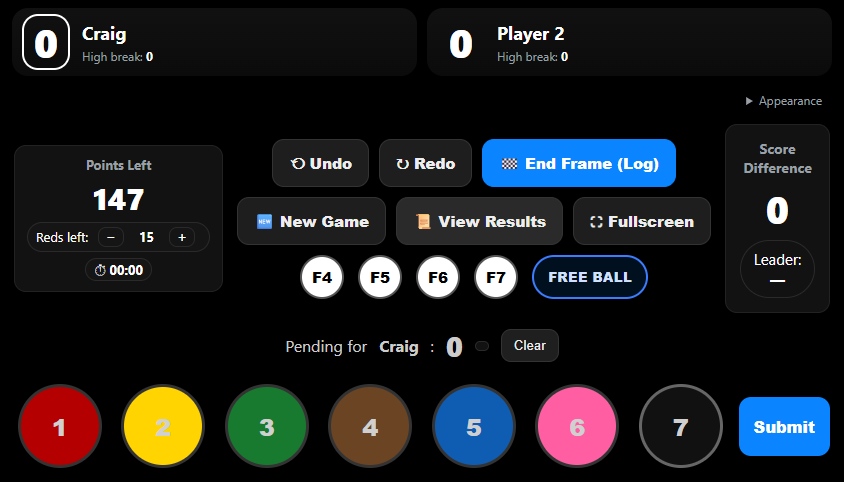
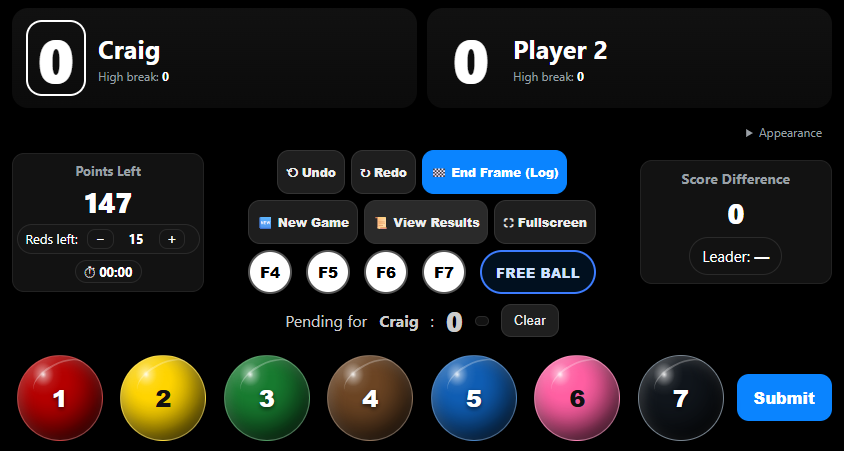
Fit all skins to tablet and enrich Classic visuals

diff --git a/review/dramatic.css b/review/dramatic.css
@@ -112,3 +112,63 @@ html[data-theme="classic"] .statCard .big{font-size:28px;}
 html[data-theme="classic"] .ball{width:min(100%,64px);}
 }
 @media(max-width:600px){html[data-theme="classic"] .ballRow{grid-template-columns:repeat(4,minmax(0,1fr));}}
+
+/* OLED and Club share the proven Broadcast layout dimensions. */
+html:is([data-theme="oled"],[data-theme="club"]) .players {gap:12px;padding:12px 14px;}
+html:is([data-theme="oled"],[data-theme="club"]) .player {display:grid;grid-template-columns:auto minmax(0,1fr);grid-template-rows:auto auto;column-gap:24px;align-items:center;min-height:0;padding:14px 20px;}
+html:is([data-theme="oled"],[data-theme="club"]) .player .score {grid-column:1;grid-row:1/3;font-size:clamp(48px,7vw,76px);margin:0;padding:4px 10px;border-radius:4px;}
+html:is([data-theme="oled"],[data-theme="club"]) .player.selected .score {outline:2px solid var(--outline);outline-offset:2px;padding:4px 10px;}
+html:is([data-theme="oled"],[data-theme="club"]) .player .name {grid-column:2;grid-row:1;font-size:clamp(18px,2.5vw,26px);align-self:end;overflow-wrap:anywhere;min-width:0;}
+html:is([data-theme="oled"],[data-theme="club"]) .player .meta {grid-column:2;grid-row:2;align-self:start;padding-top:6px;font-size:13px;}
+html:is([data-theme="oled"],[data-theme="club"]) .ballRow {grid-template-columns:repeat(8,minmax(0,1fr));}
+html:is([data-theme="oled"],[data-theme="club"]) .ball {width:min(var(--btnSize),100%);height:auto;aspect-ratio:1;}
+html:is([data-theme="oled"],[data-theme="club"]) .submit {min-width:0;}
+@media(max-width:600px){html:is([data-theme="oled"],[data-theme="club"]) .ballRow{grid-template-columns:repeat(4,minmax(0,1fr));}html:is([data-theme="oled"],[data-theme="club"]) .player{column-gap:12px;padding:12px;}html:is([data-theme="oled"],[data-theme="club"]) .player .score{font-size:44px;padding:4px;}html:is([data-theme="oled"],[data-theme="club"]) .player.selected .score{padding:4px;}html:is([data-theme="oled"],[data-theme="club"]) .player .meta{font-size:11px;}}
+/* Broadcast density follows available viewport height, including scaled tablets. */
+html:is([data-theme="oled"],[data-theme="club"]) #app {height:100dvh;}
+html:is([data-theme="oled"],[data-theme="club"]) .players {padding:8px 12px;gap:10px;}
+html:is([data-theme="oled"],[data-theme="club"]) .player {padding:8px 14px;column-gap:16px;}
+html:is([data-theme="oled"],[data-theme="club"]) .player .score {font-size:clamp(40px,7dvh,64px);}
+html:is([data-theme="oled"],[data-theme="club"]) .player .name {font-size:clamp(18px,2vw,24px);}
+html:is([data-theme="oled"],[data-theme="club"]) .player .meta {padding-top:3px;font-size:12px;}
+html:is([data-theme="oled"],[data-theme="club"]) .appearance {margin-bottom:0;}
+html:is([data-theme="oled"],[data-theme="club"]) .appearance summary {padding:8px 12px;}
+html:is([data-theme="oled"],[data-theme="club"]) .middle {gap:10px;padding:4px 12px;}
+html:is([data-theme="oled"],[data-theme="club"]) .btnCol,html:is([data-theme="oled"],[data-theme="club"]) .btnRow {gap:6px;}
+html:is([data-theme="oled"],[data-theme="club"]) :is(.undoBtn,.redoBtn,.resetBtn,.logBtn,.resultsBtn) {padding:8px 12px;min-height:44px;font-size:14px;}
+html:is([data-theme="oled"],[data-theme="club"]) .foulRow {gap:8px;}
+html:is([data-theme="oled"],[data-theme="club"]) .freeBallBtn {min-height:44px;padding:8px 12px;font-size:13px;}
+html:is([data-theme="oled"],[data-theme="club"]) .statCard {padding:8px;}
+html:is([data-theme="oled"],[data-theme="club"]) .statCard .big {font-size:clamp(24px,4dvh,34px);}
+html:is([data-theme="oled"],[data-theme="club"]) .pending {padding:4px 10px;gap:8px;}
+html:is([data-theme="oled"],[data-theme="club"]) .headToHead {margin:6px 12px 8px;padding:0 12px;}
+html:is([data-theme="oled"],[data-theme="club"]) .headToHead[open] {padding-bottom:8px;}
+html:is([data-theme="oled"],[data-theme="club"]) .h2hGames {gap:6px;margin-top:4px;}
+html:is([data-theme="oled"],[data-theme="club"]) .h2hGame {padding:6px;}
+html:is([data-theme="oled"],[data-theme="club"]) .h2hGame strong {font-size:20px;}
+html:is([data-theme="oled"],[data-theme="club"]) .bottom {padding:10px 8px;margin: auto 12px 8px;}
+html:is([data-theme="oled"],[data-theme="club"]) .ballRow {gap:8px;}
+html:is([data-theme="oled"],[data-theme="club"]) .ball {width:min(100%,clamp(48px,15dvh,112px));font-size:20px;}
+html:is([data-theme="oled"],[data-theme="club"]) .submit {padding:12px 6px;min-height:44px;font-size:14px;}
+@media(min-width:601px) and (max-height:600px){
+html:is([data-theme="oled"],[data-theme="club"]) .players{padding:6px 12px;}
+html:is([data-theme="oled"],[data-theme="club"]) .player{padding:6px 12px;}
+html:is([data-theme="oled"],[data-theme="club"]) .player .score{font-size:40px;}
+html:is([data-theme="oled"],[data-theme="club"]) .middle{grid-template-columns:minmax(0,1fr) minmax(0,2.2fr) minmax(0,1fr);gap:6px;padding:2px 12px;}
+html:is([data-theme="oled"],[data-theme="club"]) :is(.undoBtn,.redoBtn,.resetBtn,.logBtn,.resultsBtn){padding:6px 8px;font-size:12px;}
+html:is([data-theme="oled"],[data-theme="club"]) .statCard .chip{font-size:12px;padding:4px 6px;}
+html:is([data-theme="oled"],[data-theme="club"]) .h2hGame{padding:4px;}
+html:is([data-theme="oled"],[data-theme="club"]) .h2hGame span{margin-top:2px;font-size:11px;}
+html:is([data-theme="oled"],[data-theme="club"]) .bottom{padding:4px;}
+html:is([data-theme="oled"],[data-theme="club"]) .ball{width:min(100%,56px);}
+}
+
+/* Tablet skin sizing: Classic uses the space saved by hiding head-to-head. */
+html[data-theme="classic"] #app {height:100dvh;}
+html[data-theme="classic"] .player {min-height:clamp(100px,23dvh,200px);padding:12px 18px;}
+html[data-theme="classic"] .player .score {font-size:clamp(60px,13dvh,120px);}
+html[data-theme="classic"] .player .name {font-size:clamp(20px,3vw,30px);}
+html[data-theme="classic"] .ball {position:relative;isolation:isolate;width:min(100%,clamp(80px,22dvh,160px));border:1px solid #ffffff40;background-image:radial-gradient(ellipse at 30% 22%,#ffffffe8 0%,#ffffff75 4%,#ffffff12 13%,transparent 23%),radial-gradient(circle at 35% 28%,transparent 25%,#0003 62%,#000b 100%);box-shadow:inset -9px -13px 20px #0007,inset 3px 4px 12px #ffffff36,0 12px 16px -5px #000c;color:#fff;text-shadow:0 2px 4px #000a;}
+html[data-theme="classic"] .ball::after {content:"";position:absolute;inset:8% 16% 57% 16%;border-top:2px solid #ffffff42;border-radius:50%;transform:rotate(-28deg);pointer-events:none;}
+html[data-theme="classic"] :is(.ball.yellow,.ball.pink){color:#111;text-shadow:none;}
+html[data-theme="classic"] .ball.black{background-color:#10151b;border-color:#77838e;}

diff --git a/index.html b/index.html
@@ -331,6 +331,66 @@ html[data-theme="classic"] .ball{width:min(100%,64px);}
 }
 @media(max-width:600px){html[data-theme="classic"] .ballRow{grid-template-columns:repeat(4,minmax(0,1fr));}}
 
+/* OLED and Club share the proven Broadcast layout dimensions. */
+html:is([data-theme="oled"],[data-theme="club"]) .players {gap:12px;padding:12px 14px;}
+html:is([data-theme="oled"],[data-theme="club"]) .player {display:grid;grid-template-columns:auto minmax(0,1fr);grid-template-rows:auto auto;column-gap:24px;align-items:center;min-height:0;padding:14px 20px;}
+html:is([data-theme="oled"],[data-theme="club"]) .player .score {grid-column:1;grid-row:1/3;font-size:clamp(48px,7vw,76px);margin:0;padding:4px 10px;border-radius:4px;}
+html:is([data-theme="oled"],[data-theme="club"]) .player.selected .score {outline:2px solid var(--outline);outline-offset:2px;padding:4px 10px;}
+html:is([data-theme="oled"],[data-theme="club"]) .player .name {grid-column:2;grid-row:1;font-size:clamp(18px,2.5vw,26px);align-self:end;overflow-wrap:anywhere;min-width:0;}
+html:is([data-theme="oled"],[data-theme="club"]) .player .meta {grid-column:2;grid-row:2;align-self:start;padding-top:6px;font-size:13px;}
+html:is([data-theme="oled"],[data-theme="club"]) .ballRow {grid-template-columns:repeat(8,minmax(0,1fr));}
+html:is([data-theme="oled"],[data-theme="club"]) .ball {width:min(var(--btnSize),100%);height:auto;aspect-ratio:1;}
+html:is([data-theme="oled"],[data-theme="club"]) .submit {min-width:0;}
+@media(max-width:600px){html:is([data-theme="oled"],[data-theme="club"]) .ballRow{grid-template-columns:repeat(4,minmax(0,1fr));}html:is([data-theme="oled"],[data-theme="club"]) .player{column-gap:12px;padding:12px;}html:is([data-theme="oled"],[data-theme="club"]) .player .score{font-size:44px;padding:4px;}html:is([data-theme="oled"],[data-theme="club"]) .player.selected .score{padding:4px;}html:is([data-theme="oled"],[data-theme="club"]) .player .meta{font-size:11px;}}
+/* Broadcast density follows available viewport height, including scaled tablets. */
+html:is([data-theme="oled"],[data-theme="club"]) #app {height:100dvh;}
+html:is([data-theme="oled"],[data-theme="club"]) .players {padding:8px 12px;gap:10px;}
+html:is([data-theme="oled"],[data-theme="club"]) .player {padding:8px 14px;column-gap:16px;}
+html:is([data-theme="oled"],[data-theme="club"]) .player .score {font-size:clamp(40px,7dvh,64px);}
+html:is([data-theme="oled"],[data-theme="club"]) .player .name {font-size:clamp(18px,2vw,24px);}
+html:is([data-theme="oled"],[data-theme="club"]) .player .meta {padding-top:3px;font-size:12px;}
+html:is([data-theme="oled"],[data-theme="club"]) .appearance {margin-bottom:0;}
+html:is([data-theme="oled"],[data-theme="club"]) .appearance summary {padding:8px 12px;}
+html:is([data-theme="oled"],[data-theme="club"]) .middle {gap:10px;padding:4px 12px;}
+html:is([data-theme="oled"],[data-theme="club"]) .btnCol,html:is([data-theme="oled"],[data-theme="club"]) .btnRow {gap:6px;}
+html:is([data-theme="oled"],[data-theme="club"]) :is(.undoBtn,.redoBtn,.resetBtn,.logBtn,.resultsBtn) {padding:8px 12px;min-height:44px;font-size:14px;}
+html:is([data-theme="oled"],[data-theme="club"]) .foulRow {gap:8px;}
+html:is([data-theme="oled"],[data-theme="club"]) .freeBallBtn {min-height:44px;padding:8px 12px;font-size:13px;}
+html:is([data-theme="oled"],[data-theme="club"]) .statCard {padding:8px;}
+html:is([data-theme="oled"],[data-theme="club"]) .statCard .big {font-size:clamp(24px,4dvh,34px);}
+html:is([data-theme="oled"],[data-theme="club"]) .pending {padding:4px 10px;gap:8px;}
+html:is([data-theme="oled"],[data-theme="club"]) .headToHead {margin:6px 12px 8px;padding:0 12px;}
+html:is([data-theme="oled"],[data-theme="club"]) .headToHead[open] {padding-bottom:8px;}
+html:is([data-theme="oled"],[data-theme="club"]) .h2hGames {gap:6px;margin-top:4px;}
+html:is([data-theme="oled"],[data-theme="club"]) .h2hGame {padding:6px;}
+html:is([data-theme="oled"],[data-theme="club"]) .h2hGame strong {font-size:20px;}
+html:is([data-theme="oled"],[data-theme="club"]) .bottom {padding:10px 8px;margin: auto 12px 8px;}
+html:is([data-theme="oled"],[data-theme="club"]) .ballRow {gap:8px;}
+html:is([data-theme="oled"],[data-theme="club"]) .ball {width:min(100%,clamp(48px,15dvh,112px));font-size:20px;}
+html:is([data-theme="oled"],[data-theme="club"]) .submit {padding:12px 6px;min-height:44px;font-size:14px;}
+@media(min-width:601px) and (max-height:600px){
+html:is([data-theme="oled"],[data-theme="club"]) .players{padding:6px 12px;}
+html:is([data-theme="oled"],[data-theme="club"]) .player{padding:6px 12px;}
+html:is([data-theme="oled"],[data-theme="club"]) .player .score{font-size:40px;}
+html:is([data-theme="oled"],[data-theme="club"]) .middle{grid-template-columns:minmax(0,1fr) minmax(0,2.2fr) minmax(0,1fr);gap:6px;padding:2px 12px;}
+html:is([data-theme="oled"],[data-theme="club"]) :is(.undoBtn,.redoBtn,.resetBtn,.logBtn,.resultsBtn){padding:6px 8px;font-size:12px;}
+html:is([data-theme="oled"],[data-theme="club"]) .statCard .chip{font-size:12px;padding:4px 6px;}
+html:is([data-theme="oled"],[data-theme="club"]) .h2hGame{padding:4px;}
+html:is([data-theme="oled"],[data-theme="club"]) .h2hGame span{margin-top:2px;font-size:11px;}
+html:is([data-theme="oled"],[data-theme="club"]) .bottom{padding:4px;}
+html:is([data-theme="oled"],[data-theme="club"]) .ball{width:min(100%,56px);}
+}
+
+/* Tablet skin sizing: Classic uses the space saved by hiding head-to-head. */
+html[data-theme="classic"] #app {height:100dvh;}
+html[data-theme="classic"] .player {min-height:clamp(100px,23dvh,200px);padding:12px 18px;}
+html[data-theme="classic"] .player .score {font-size:clamp(60px,13dvh,120px);}
+html[data-theme="classic"] .player .name {font-size:clamp(20px,3vw,30px);}
+html[data-theme="classic"] .ball {position:relative;isolation:isolate;width:min(100%,clamp(80px,22dvh,160px));border:1px solid #ffffff40;background-image:radial-gradient(ellipse at 30% 22%,#ffffffe8 0%,#ffffff75 4%,#ffffff12 13%,transparent 23%),radial-gradient(circle at 35% 28%,transparent 25%,#0003 62%,#000b 100%);box-shadow:inset -9px -13px 20px #0007,inset 3px 4px 12px #ffffff36,0 12px 16px -5px #000c;color:#fff;text-shadow:0 2px 4px #000a;}
+html[data-theme="classic"] .ball::after {content:"";position:absolute;inset:8% 16% 57% 16%;border-top:2px solid #ffffff42;border-radius:50%;transform:rotate(-28deg);pointer-events:none;}
+html[data-theme="classic"] :is(.ball.yellow,.ball.pink){color:#111;text-shadow:none;}
+html[data-theme="classic"] .ball.black{background-color:#10151b;border-color:#77838e;}
+
 </style>
 </head>
 <body>

diff --git a/results.html b/results.html
@@ -237,6 +237,66 @@ html[data-theme="classic"] .ball{width:min(100%,64px);}
 }
 @media(max-width:600px){html[data-theme="classic"] .ballRow{grid-template-columns:repeat(4,minmax(0,1fr));}}
 
+/* OLED and Club share the proven Broadcast layout dimensions. */
+html:is([data-theme="oled"],[data-theme="club"]) .players {gap:12px;padding:12px 14px;}
+html:is([data-theme="oled"],[data-theme="club"]) .player {display:grid;grid-template-columns:auto minmax(0,1fr);grid-template-rows:auto auto;column-gap:24px;align-items:center;min-height:0;padding:14px 20px;}
+html:is([data-theme="oled"],[data-theme="club"]) .player .score {grid-column:1;grid-row:1/3;font-size:clamp(48px,7vw,76px);margin:0;padding:4px 10px;border-radius:4px;}
+html:is([data-theme="oled"],[data-theme="club"]) .player.selected .score {outline:2px solid var(--outline);outline-offset:2px;padding:4px 10px;}
+html:is([data-theme="oled"],[data-theme="club"]) .player .name {grid-column:2;grid-row:1;font-size:clamp(18px,2.5vw,26px);align-self:end;overflow-wrap:anywhere;min-width:0;}
+html:is([data-theme="oled"],[data-theme="club"]) .player .meta {grid-column:2;grid-row:2;align-self:start;padding-top:6px;font-size:13px;}
+html:is([data-theme="oled"],[data-theme="club"]) .ballRow {grid-template-columns:repeat(8,minmax(0,1fr));}
+html:is([data-theme="oled"],[data-theme="club"]) .ball {width:min(var(--btnSize),100%);height:auto;aspect-ratio:1;}
+html:is([data-theme="oled"],[data-theme="club"]) .submit {min-width:0;}
+@media(max-width:600px){html:is([data-theme="oled"],[data-theme="club"]) .ballRow{grid-template-columns:repeat(4,minmax(0,1fr));}html:is([data-theme="oled"],[data-theme="club"]) .player{column-gap:12px;padding:12px;}html:is([data-theme="oled"],[data-theme="club"]) .player .score{font-size:44px;padding:4px;}html:is([data-theme="oled"],[data-theme="club"]) .player.selected .score{padding:4px;}html:is([data-theme="oled"],[data-theme="club"]) .player .meta{font-size:11px;}}
+/* Broadcast density follows available viewport height, including scaled tablets. */
+html:is([data-theme="oled"],[data-theme="club"]) #app {height:100dvh;}
+html:is([data-theme="oled"],[data-theme="club"]) .players {padding:8px 12px;gap:10px;}
+html:is([data-theme="oled"],[data-theme="club"]) .player {padding:8px 14px;column-gap:16px;}
+html:is([data-theme="oled"],[data-theme="club"]) .player .score {font-size:clamp(40px,7dvh,64px);}
+html:is([data-theme="oled"],[data-theme="club"]) .player .name {font-size:clamp(18px,2vw,24px);}
+html:is([data-theme="oled"],[data-theme="club"]) .player .meta {padding-top:3px;font-size:12px;}
+html:is([data-theme="oled"],[data-theme="club"]) .appearance {margin-bottom:0;}
+html:is([data-theme="oled"],[data-theme="club"]) .appearance summary {padding:8px 12px;}
+html:is([data-theme="oled"],[data-theme="club"]) .middle {gap:10px;padding:4px 12px;}
+html:is([data-theme="oled"],[data-theme="club"]) .btnCol,html:is([data-theme="oled"],[data-theme="club"]) .btnRow {gap:6px;}
+html:is([data-theme="oled"],[data-theme="club"]) :is(.undoBtn,.redoBtn,.resetBtn,.logBtn,.resultsBtn) {padding:8px 12px;min-height:44px;font-size:14px;}
+html:is([data-theme="oled"],[data-theme="club"]) .foulRow {gap:8px;}
+html:is([data-theme="oled"],[data-theme="club"]) .freeBallBtn {min-height:44px;padding:8px 12px;font-size:13px;}
+html:is([data-theme="oled"],[data-theme="club"]) .statCard {padding:8px;}
+html:is([data-theme="oled"],[data-theme="club"]) .statCard .big {font-size:clamp(24px,4dvh,34px);}
+html:is([data-theme="oled"],[data-theme="club"]) .pending {padding:4px 10px;gap:8px;}
+html:is([data-theme="oled"],[data-theme="club"]) .headToHead {margin:6px 12px 8px;padding:0 12px;}
+html:is([data-theme="oled"],[data-theme="club"]) .headToHead[open] {padding-bottom:8px;}
+html:is([data-theme="oled"],[data-theme="club"]) .h2hGames {gap:6px;margin-top:4px;}
+html:is([data-theme="oled"],[data-theme="club"]) .h2hGame {padding:6px;}
+html:is([data-theme="oled"],[data-theme="club"]) .h2hGame strong {font-size:20px;}
+html:is([data-theme="oled"],[data-theme="club"]) .bottom {padding:10px 8px;margin: auto 12px 8px;}
+html:is([data-theme="oled"],[data-theme="club"]) .ballRow {gap:8px;}
+html:is([data-theme="oled"],[data-theme="club"]) .ball {width:min(100%,clamp(48px,15dvh,112px));font-size:20px;}
+html:is([data-theme="oled"],[data-theme="club"]) .submit {padding:12px 6px;min-height:44px;font-size:14px;}
+@media(min-width:601px) and (max-height:600px){
+html:is([data-theme="oled"],[data-theme="club"]) .players{padding:6px 12px;}
+html:is([data-theme="oled"],[data-theme="club"]) .player{padding:6px 12px;}
+html:is([data-theme="oled"],[data-theme="club"]) .player .score{font-size:40px;}
+html:is([data-theme="oled"],[data-theme="club"]) .middle{grid-template-columns:minmax(0,1fr) minmax(0,2.2fr) minmax(0,1fr);gap:6px;padding:2px 12px;}
+html:is([data-theme="oled"],[data-theme="club"]) :is(.undoBtn,.redoBtn,.resetBtn,.logBtn,.resultsBtn){padding:6px 8px;font-size:12px;}
+html:is([data-theme="oled"],[data-theme="club"]) .statCard .chip{font-size:12px;padding:4px 6px;}
+html:is([data-theme="oled"],[data-theme="club"]) .h2hGame{padding:4px;}
+html:is([data-theme="oled"],[data-theme="club"]) .h2hGame span{margin-top:2px;font-size:11px;}
+html:is([data-theme="oled"],[data-theme="club"]) .bottom{padding:4px;}
+html:is([data-theme="oled"],[data-theme="club"]) .ball{width:min(100%,56px);}
+}
+
+/* Tablet skin sizing: Classic uses the space saved by hiding head-to-head. */
+html[data-theme="classic"] #app {height:100dvh;}
+html[data-theme="classic"] .player {min-height:clamp(100px,23dvh,200px);padding:12px 18px;}
+html[data-theme="classic"] .player .score {font-size:clamp(60px,13dvh,120px);}
+html[data-theme="classic"] .player .name {font-size:clamp(20px,3vw,30px);}
+html[data-theme="classic"] .ball {position:relative;isolation:isolate;width:min(100%,clamp(80px,22dvh,160px));border:1px solid #ffffff40;background-image:radial-gradient(ellipse at 30% 22%,#ffffffe8 0%,#ffffff75 4%,#ffffff12 13%,transparent 23%),radial-gradient(circle at 35% 28%,transparent 25%,#0003 62%,#000b 100%);box-shadow:inset -9px -13px 20px #0007,inset 3px 4px 12px #ffffff36,0 12px 16px -5px #000c;color:#fff;text-shadow:0 2px 4px #000a;}
+html[data-theme="classic"] .ball::after {content:"";position:absolute;inset:8% 16% 57% 16%;border-top:2px solid #ffffff42;border-radius:50%;transform:rotate(-28deg);pointer-events:none;}
+html[data-theme="classic"] :is(.ball.yellow,.ball.pink){color:#111;text-shadow:none;}
+html[data-theme="classic"] .ball.black{background-color:#10151b;border-color:#77838e;}
+
 </style>
 </head>
 <body>
